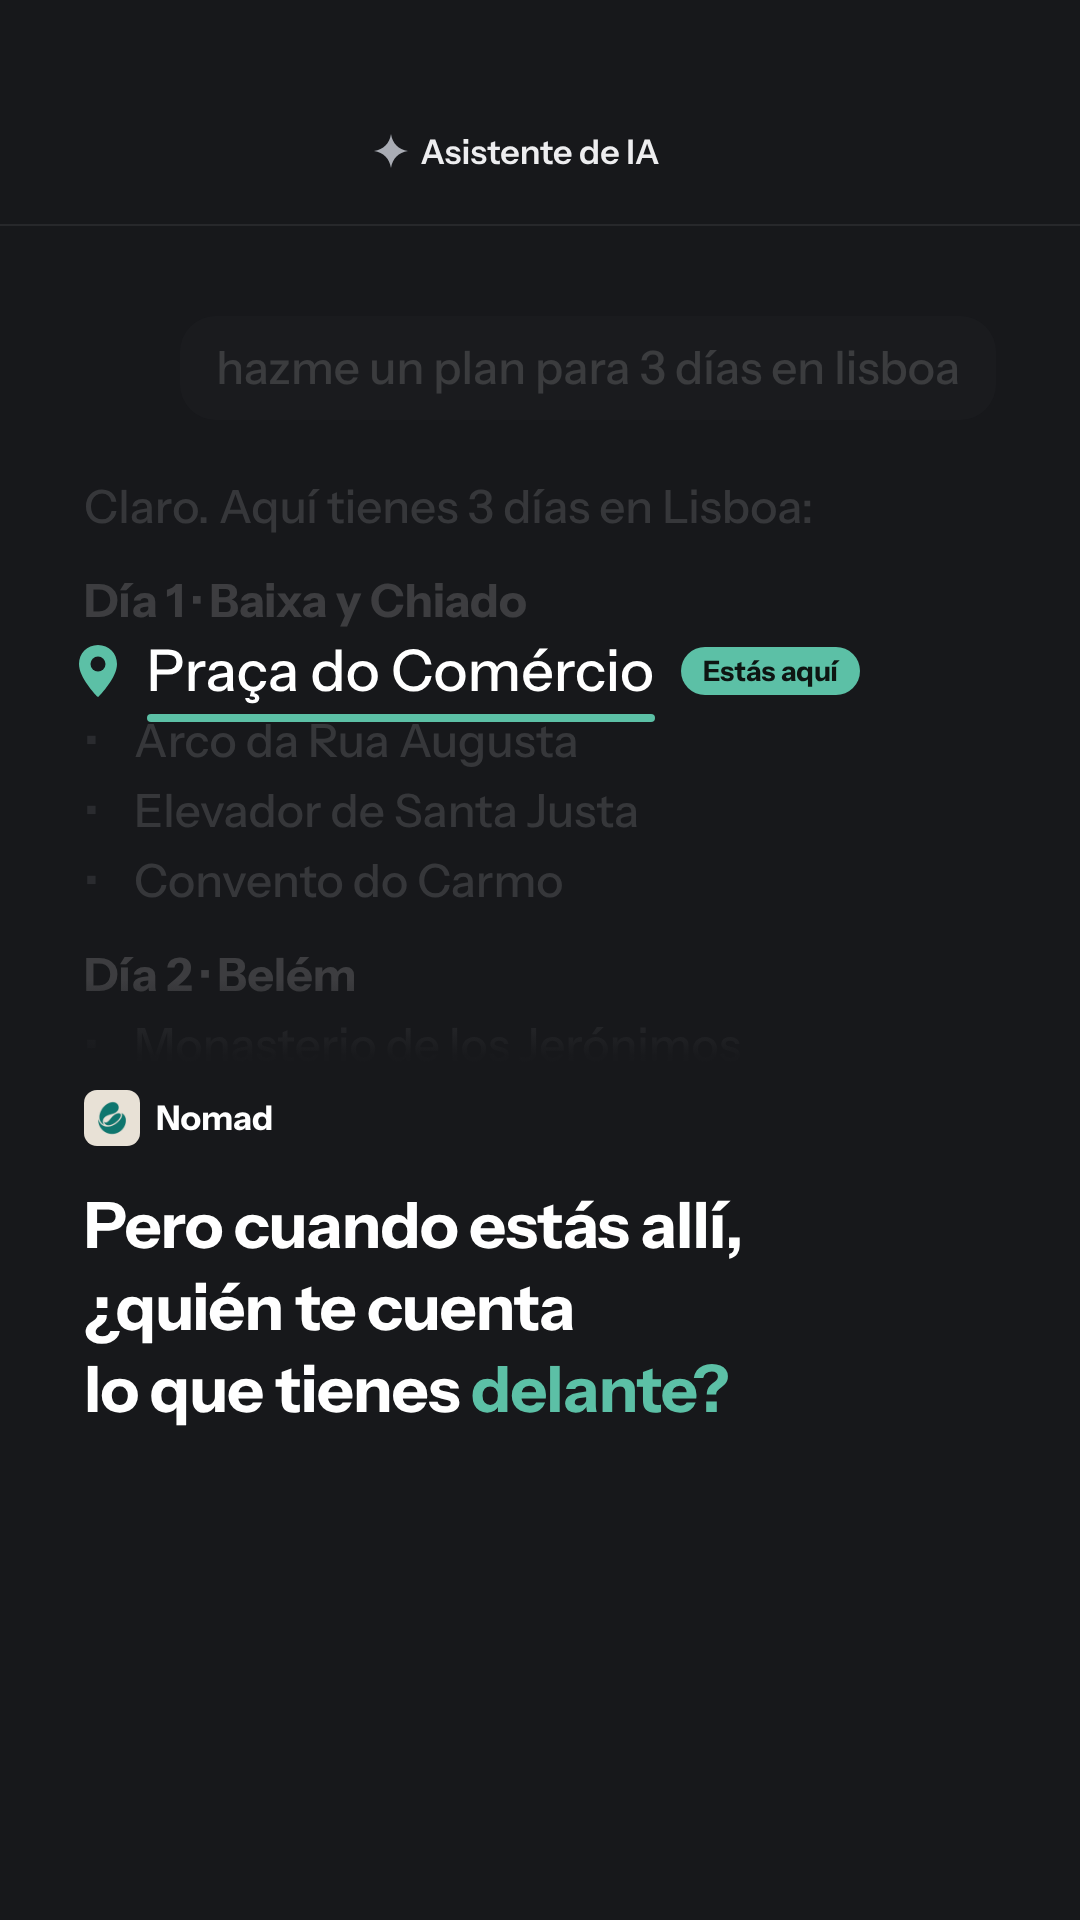
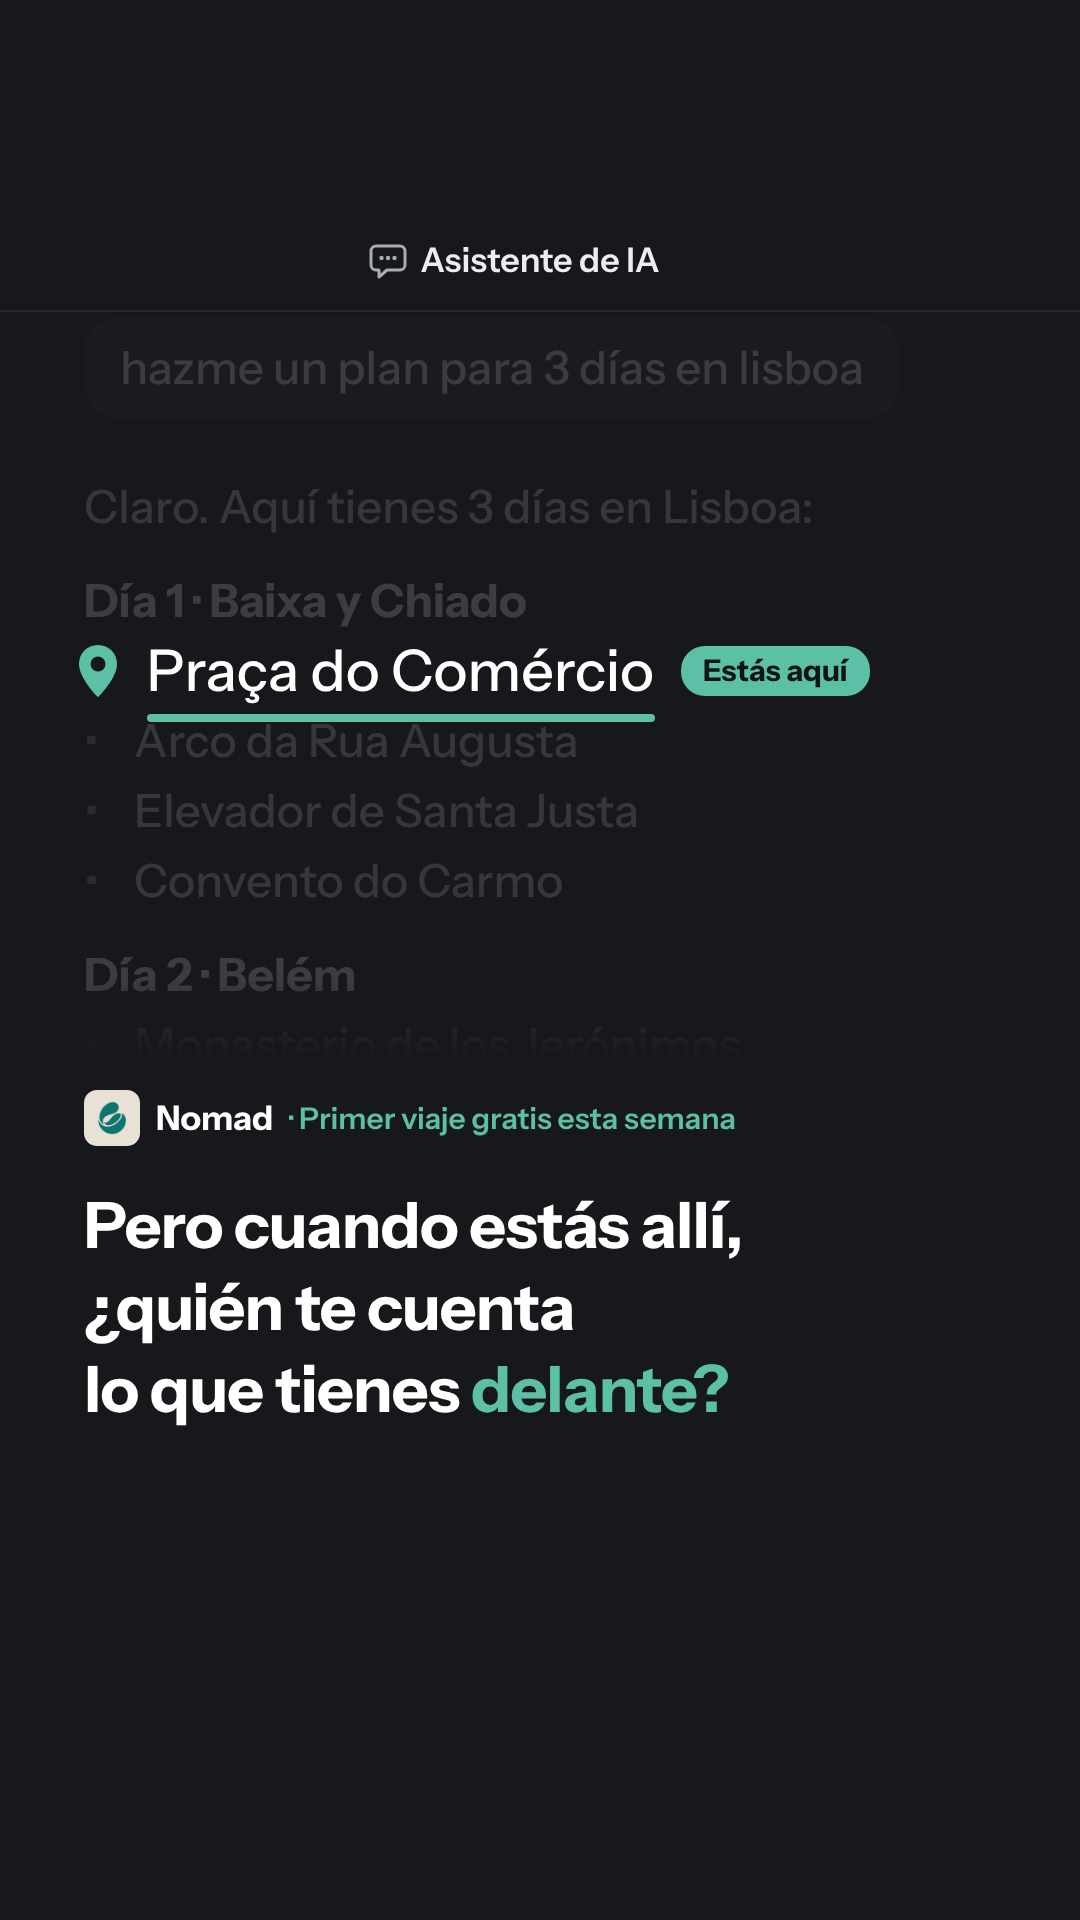
Tu primer viaje, gratis: los fotogramas de la versión definitiva y dónde estamos (#23)
Claude-Session: https://claude.ai/code/session_01NwC7E7vKftdeyFydeH4Mhu

diff --git a/AGENTS.md b/AGENTS.md
@@ -46,6 +46,11 @@ quedaron en el repo de la app —#68 subir destacadas y reels, #69 la tabla de p
   casi todos los generadores, las destacadas «La lista» y «Qué es» (tarjeta 7) y los pies de los
   reels. No se reutiliza. La lista de lo que hay que retirar o rehacer, con quién actúa, vive en
   la issue de este repo «Ya en la App Store: lo que sigue diciendo "lista de espera"».
+- **Black Friday (24-nov): el primer viaje de cada cuenta, gratis una semana** (NOMAD#479, decisión del
+  dueño). El reel está montado y revisado en `piezas/historias-animadas/primer-viaje-gratis/` (#23) y
+  **sin publicar: espera a que la promoción esté encendida en la app**. Dice «hasta el 3 de diciembre» y
+  «un viaje gratis por cuenta»; si la fecha cambia, se cambia en su `index.html` y se vuelve a renderizar.
+  El 4-dic se retira todo lo que diga «gratis». No va en la ficha de la App Store.
 - **El anuncio de la salida** es `piezas/lanzamiento/gen-ios.py` (carrusel) y
   `gen-ios-historias.py` (historias); `gen-abre.py` («¿Qué pasa el día que abra?») está obsoleto.
 
